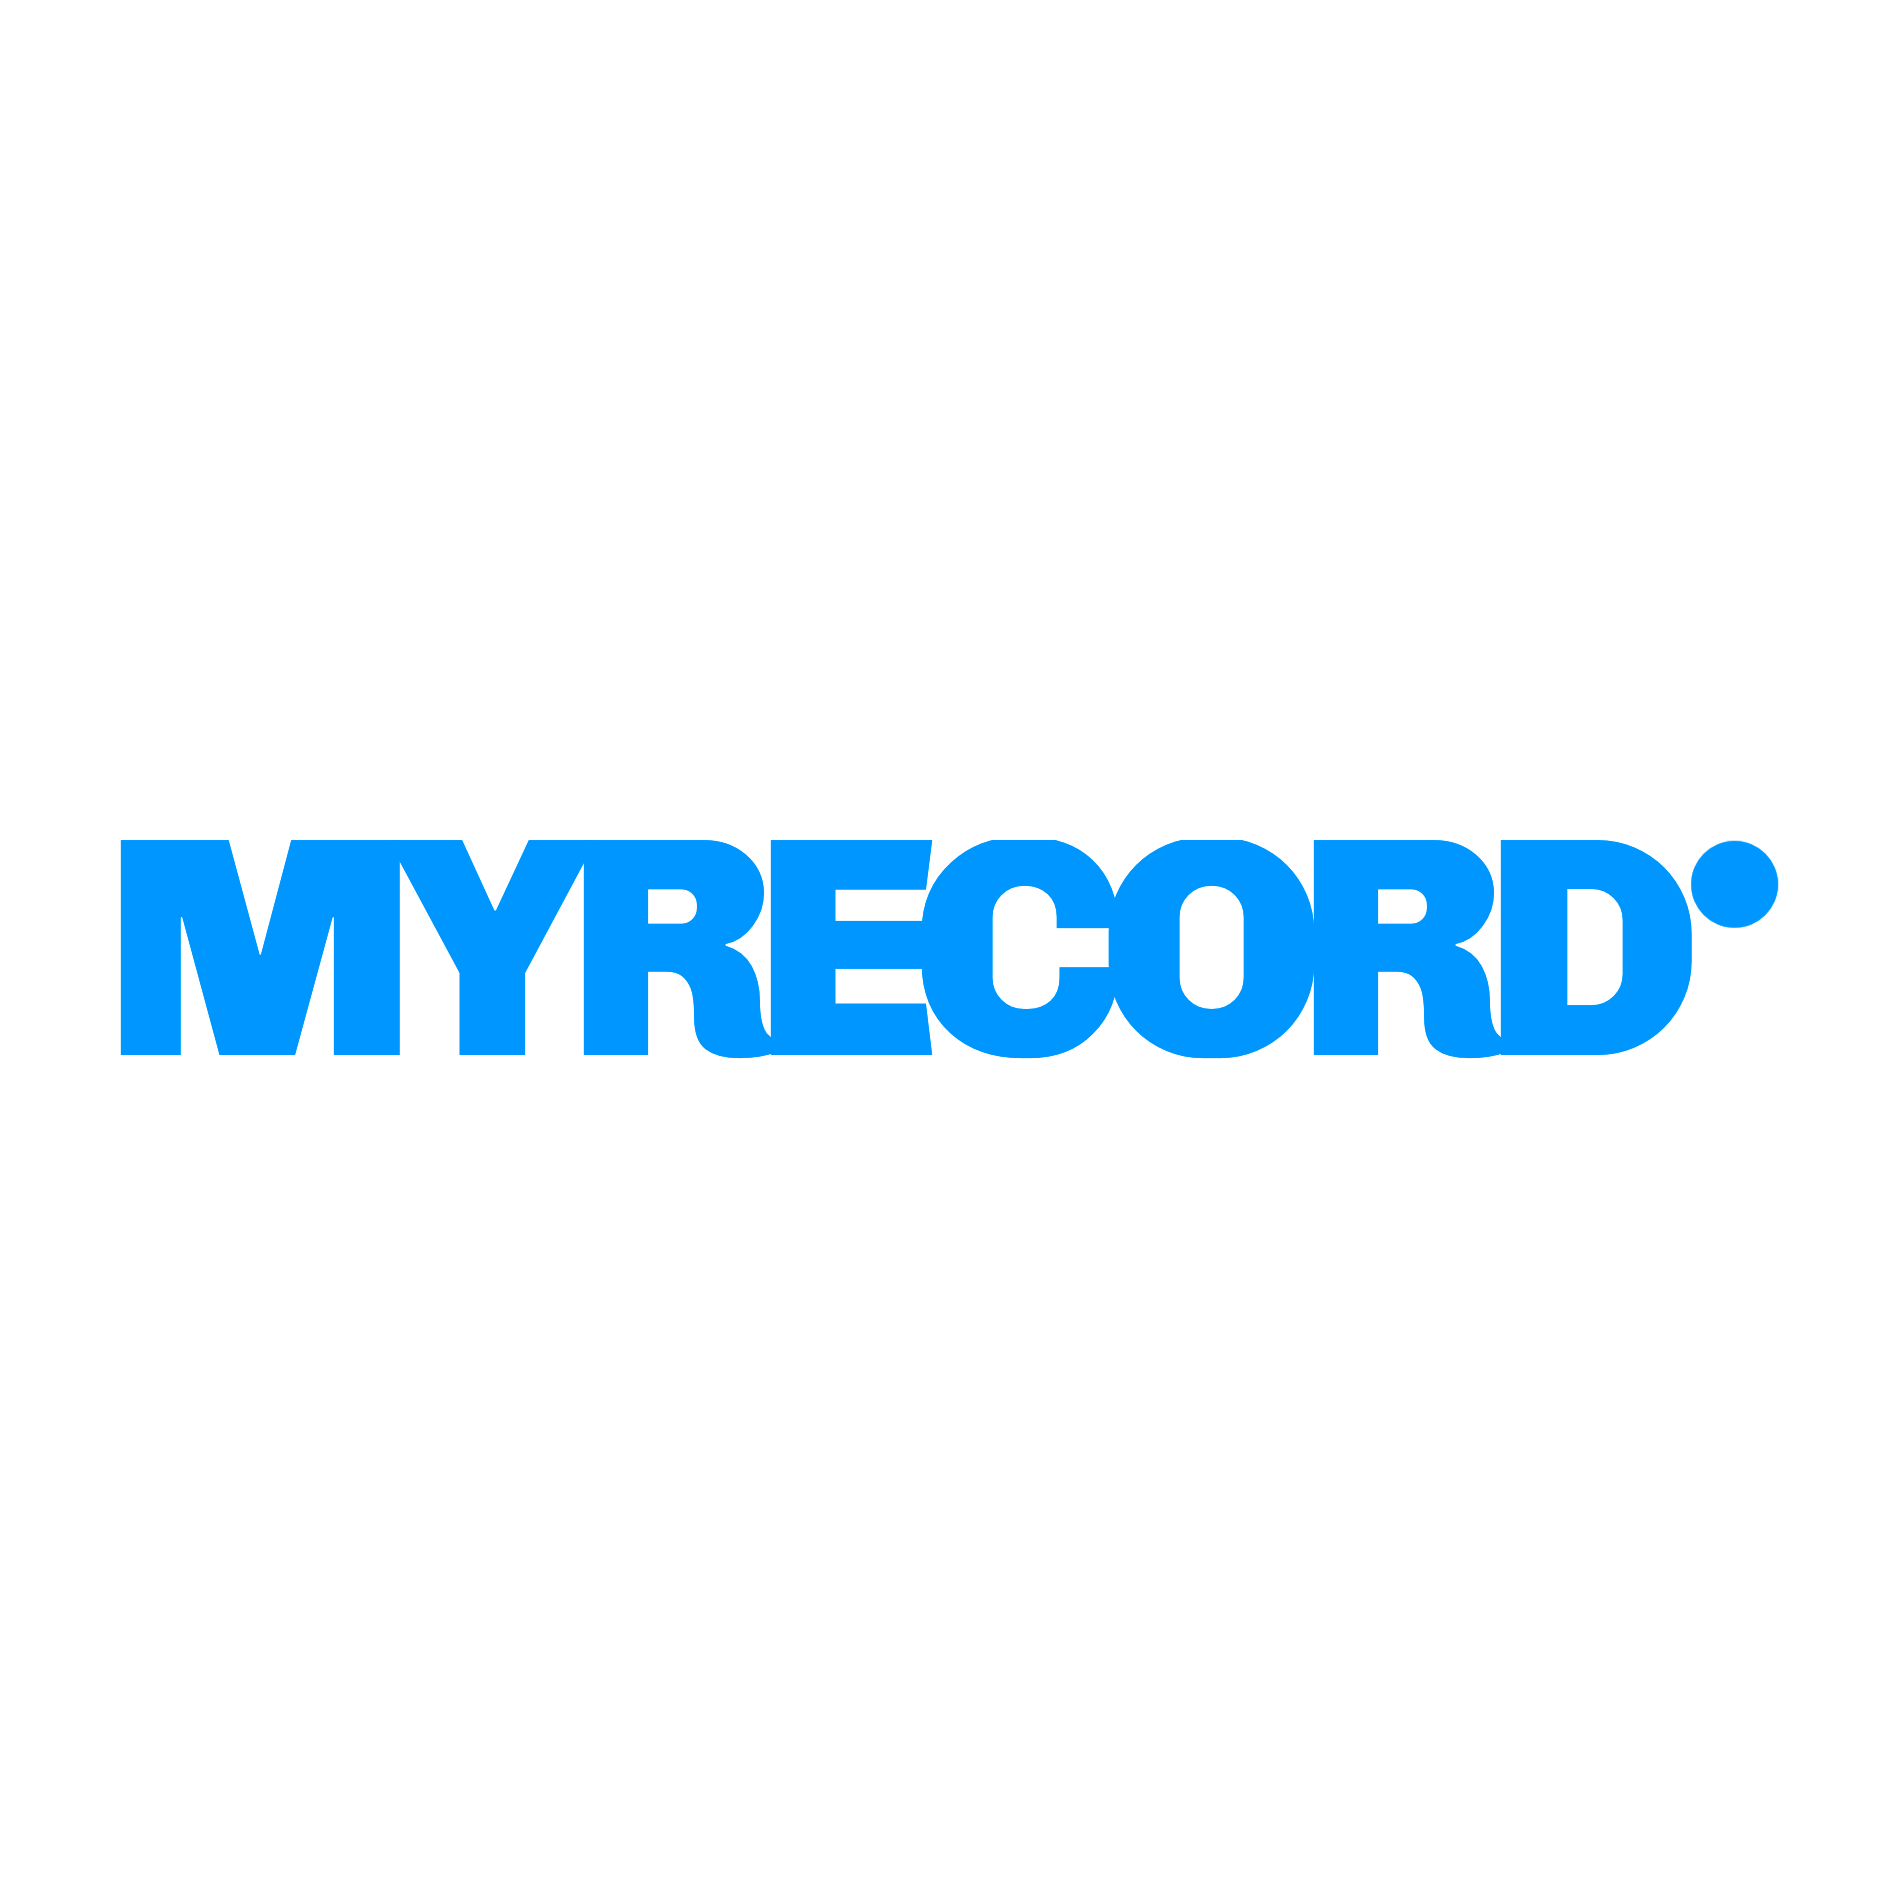
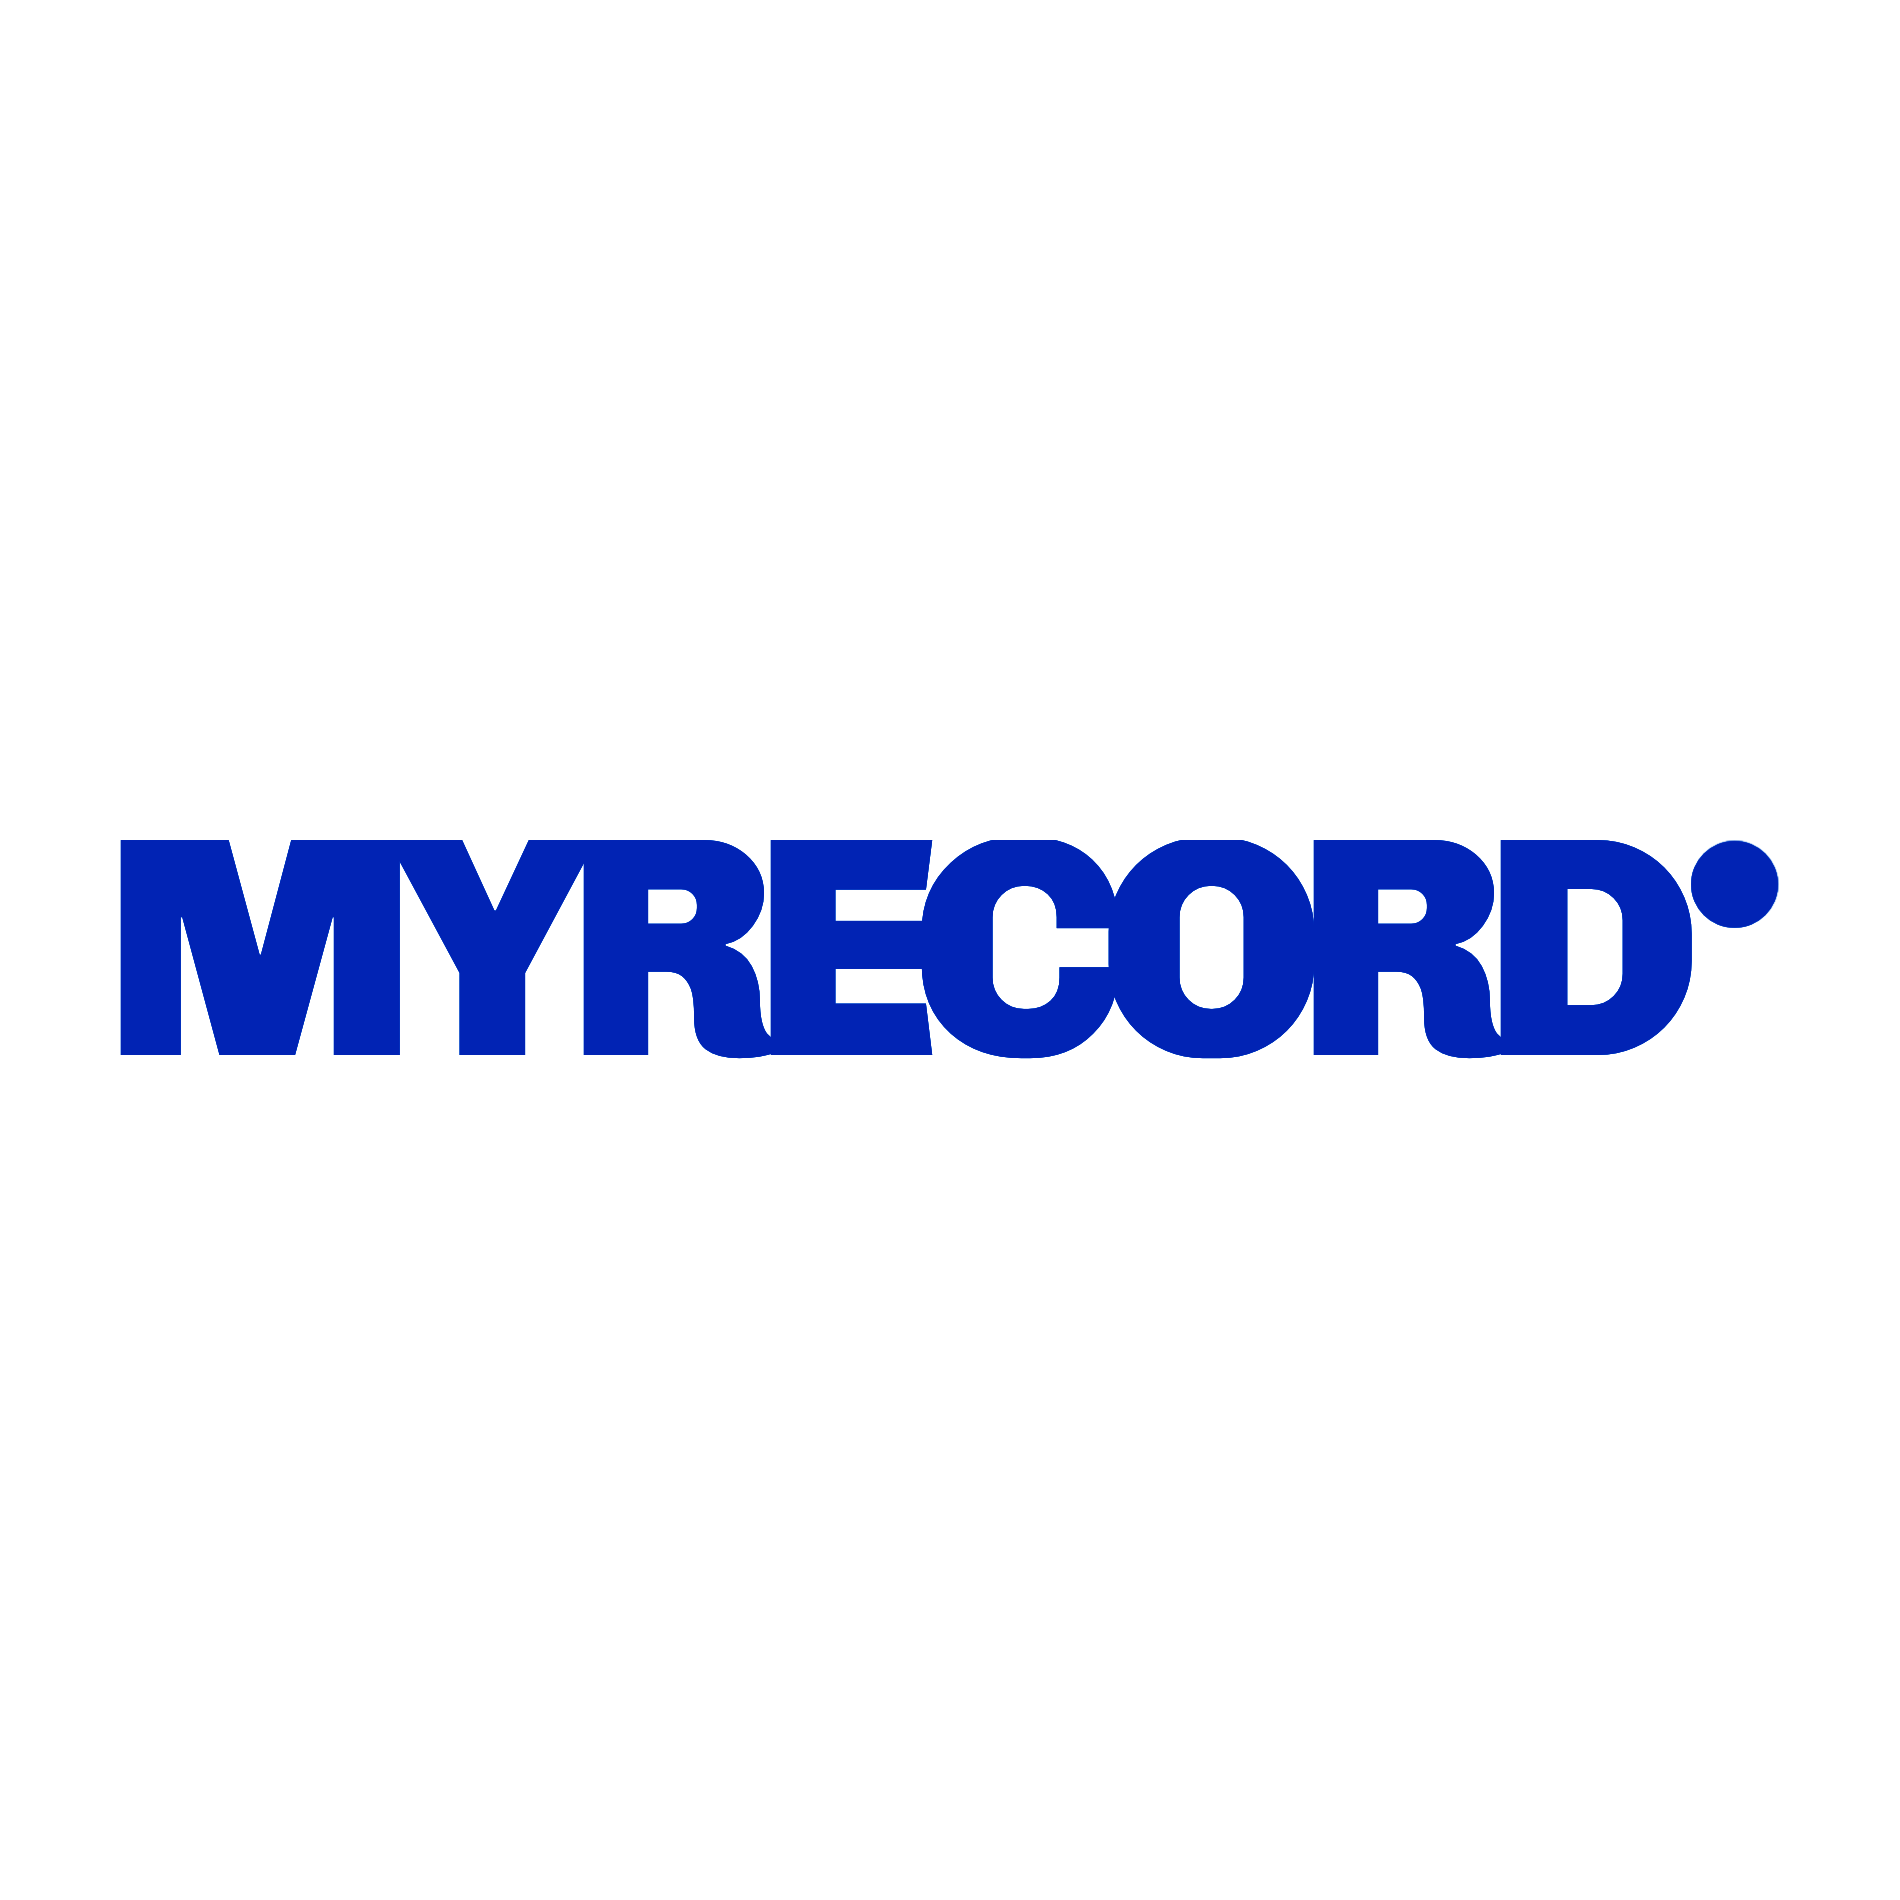
마이레코드 로고 컬러 변경

Changed region(s): [[0.0621, 0.4347, 0.9316, 0.5589]]

diff --git a/header.php b/header.php
@@ -24,10 +24,12 @@ if (!defined('NO_ALONE')) exit; // 개별 페이지 접근 불가
 <meta property="og:image" content="<?=$ogImage?>">
 <meta property="og:url" content="<?=$ogUrl?>">
 
-<link rel="apple-touch-icon" sizes="180x180" href="/img/company/apple-touch-icon.png">
-<link rel="icon" type="image/png" sizes="32x32" href="/img/company/favicon-32x32.png">
-<link rel="icon" type="image/png" sizes="16x16" href="/img/company/favicon-16x16.png">
-<link rel="manifest" href="/img/company/site.webmanifest">
+
+<!-- favicon -->
+<link rel="apple-touch-icon" sizes="180x180" href="/img/company/favicon/apple-touch-icon.png">
+<link rel="icon" type="image/png" sizes="32x32" href="/img/company/favicon/favicon-32x32.png">
+<link rel="icon" type="image/png" sizes="16x16" href="/img/company/favicon/favicon-16x16.png">
+<link rel="manifest" href="/img/company/favicon/site.webmanifest">
 
 
 <!-- safari 앵커태그 방지 -->
@@ -72,7 +74,7 @@ include_once($_SERVER['DOCUMENT_ROOT'].'/component/alert/alert.php');
         <div class="left_box">
             <div class="logo_box">
                 <a class="logo_btn" href="/">
-                    <img class="logo_img" src="/img/company/myrecord_logo.png?ver=20220924"/>
+                    <img class="logo_img" src="/img/company/myrecord_logo.png?ver=20230129"/>
                 </a>
             </div>
             <div class="menu_wrap">

diff --git a/record/record_certificate/index.php b/record/record_certificate/index.php
@@ -20,7 +20,7 @@ echo css_load('/record/record_certificate/index.css');
 
     <div class="certificate_box">
         <div class="top_logo">
-            <img class="logo_img" src="/img/company/myrecord_logo.png"/>
+            <img class="logo_img" src="/img/company/myrecord_logo.png?ver=20230129"/>
         </div>
 
         <div class="record_info_wrap">
@@ -45,7 +45,7 @@ echo css_load('/record/record_certificate/index.css');
         <div class="myrecord_signature_wrap">
             <div class="certificate_date"></div>
             <div class="myrecord_signature">
-                <img class="signature_img" src="/img/company/myrecord_logo.png"/>
+                <img class="signature_img" src="/img/company/myrecord_logo.png?ver=20230129"/>
             </div>
         </div>
 

diff --git a/common.php b/common.php
@@ -63,7 +63,7 @@ $relative_path = preg_replace("`\/[^/]*\.php$`i", "/", $_SERVER['PHP_SELF']);
 $pageTitle = "마이레코드";
 $ogTitle = "마이레코드";
 $ogDescription = "3대 측정은 마이레코드";
-$ogImage = "/img/company/myrecord_og_image.png";
+$ogImage = "/img/company/myrecord_og_image.png?ver=2";
 $ogUrl = "https://myrecord.kr";
 
 
